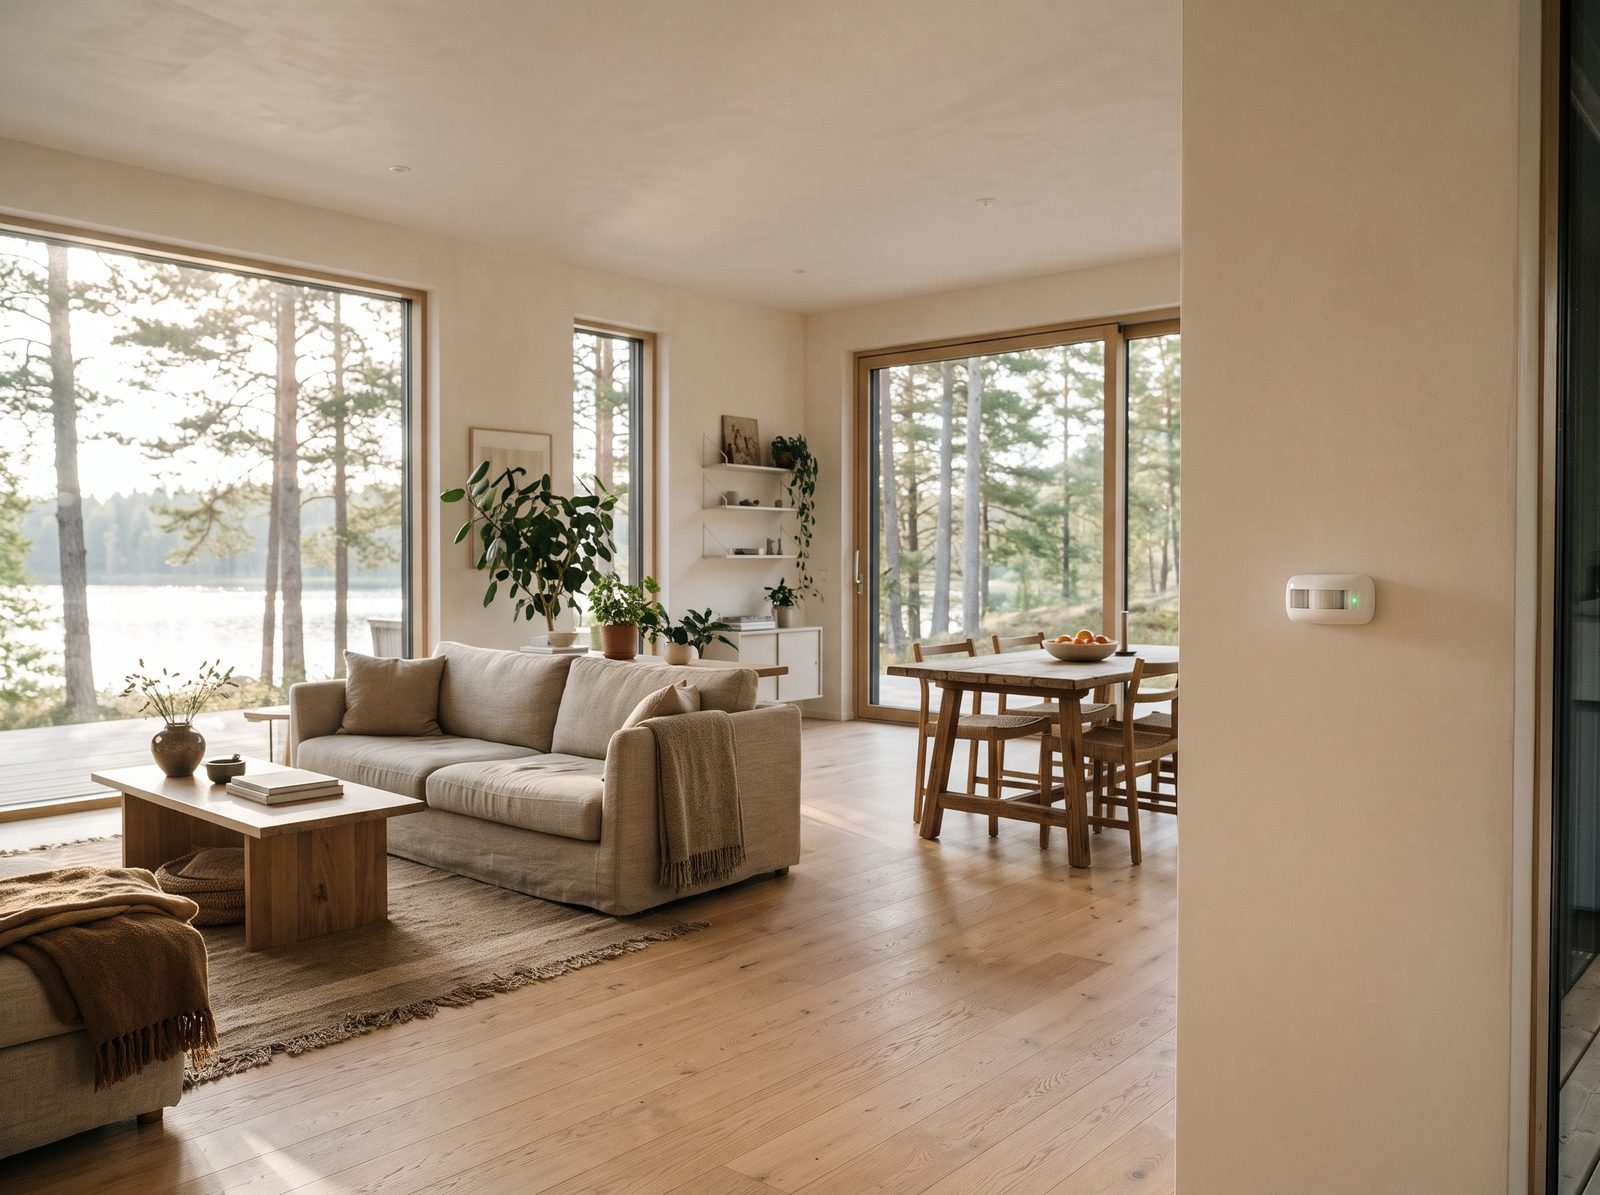
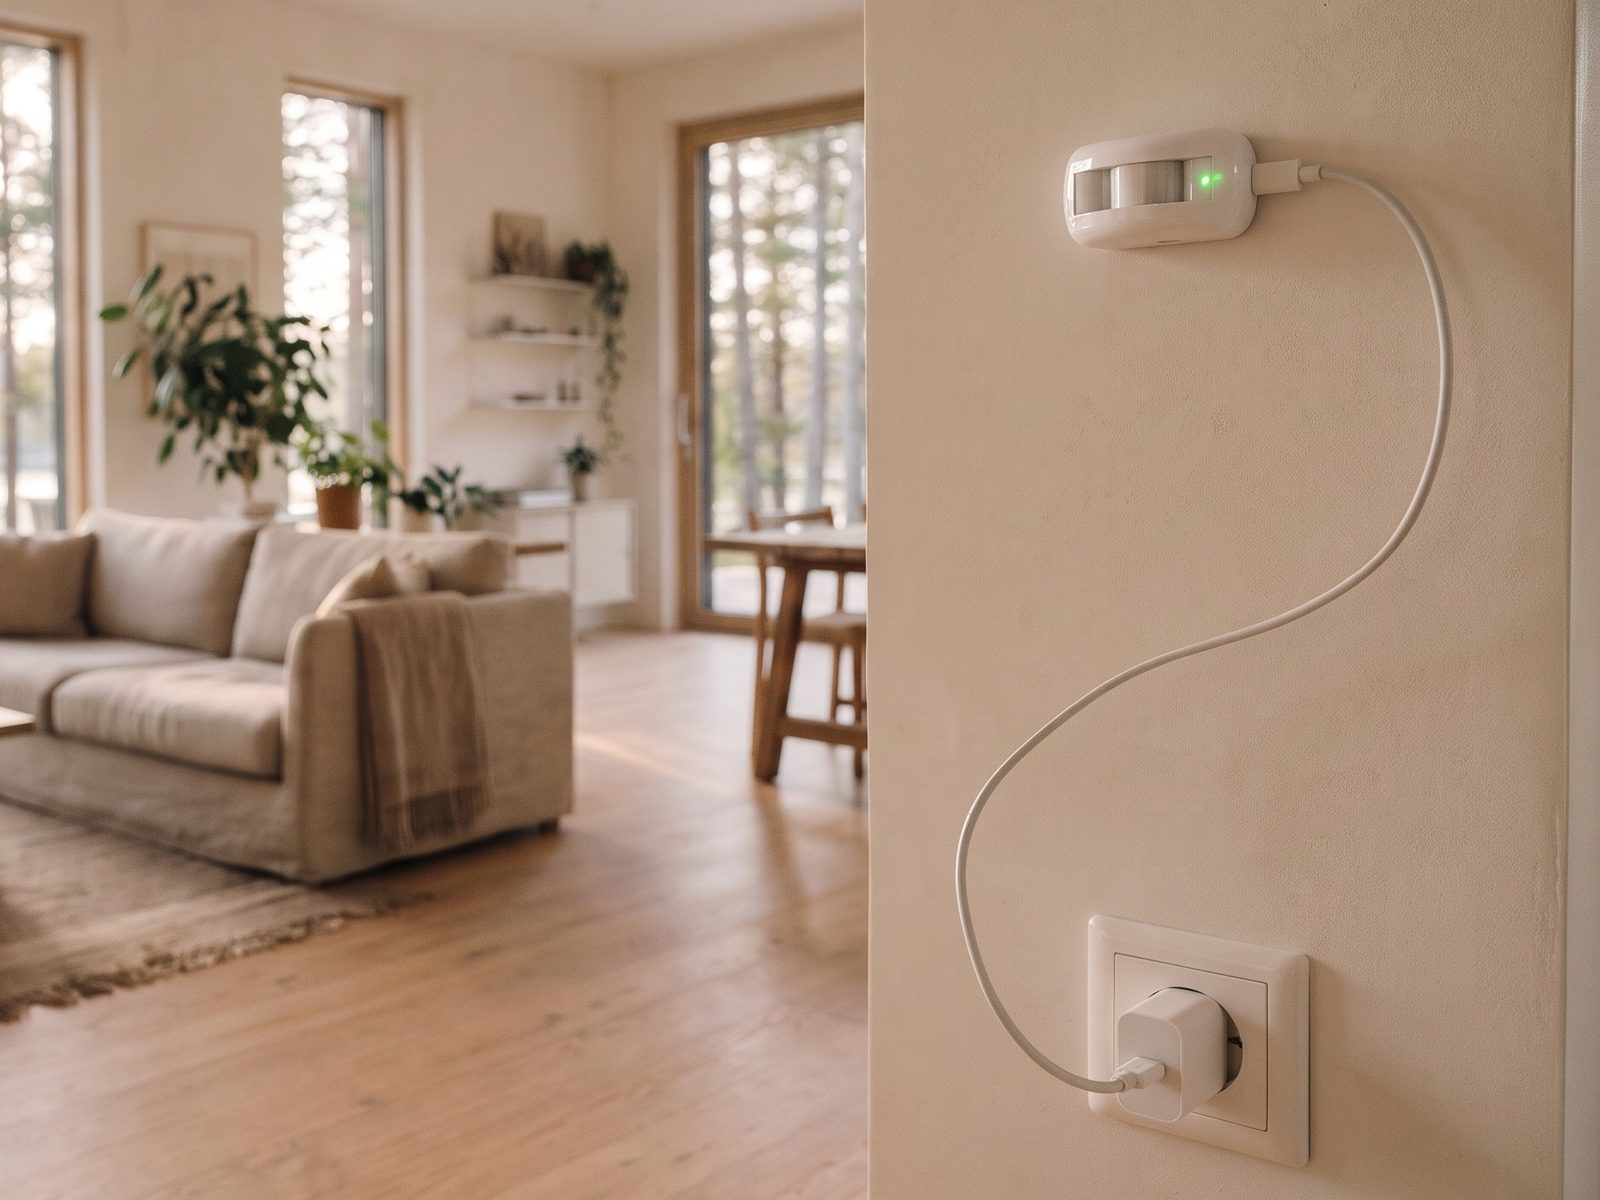
feat(web): Ferienhaus-Hero zeigt Sensor gross im Vordergrund mit Kabel und Steckdose

diff --git a/ferienhaus/index.html b/ferienhaus/index.html
@@ -268,8 +268,8 @@
     <figure class="pic">
       <picture>
         <source srcset="/ferienhaus-hero.webp" type="image/webp" />
-        <img src="/ferienhaus-hero.jpg" width="1600" height="1195"
-             alt="Helles Wohnzimmer eines Ferienhauses mit Blick auf einen See. An der Wand hängt der kleine weiße movero-sensor." />
+        <img src="/ferienhaus-hero.jpg" width="1600" height="1200"
+             alt="Helles Wohnzimmer eines Ferienhauses mit Blick auf Kiefern. Im Vordergrund hängt der weiße movero-sensor an der Wand, ein weißes Kabel führt zur Steckdose." />
       </picture>
       <div class="status" aria-hidden="true"><i></i><div><b>Haus am See · Wächter aktiv</b><span>Keine Bewegung seit der Abreise</span></div></div>
     </figure>
